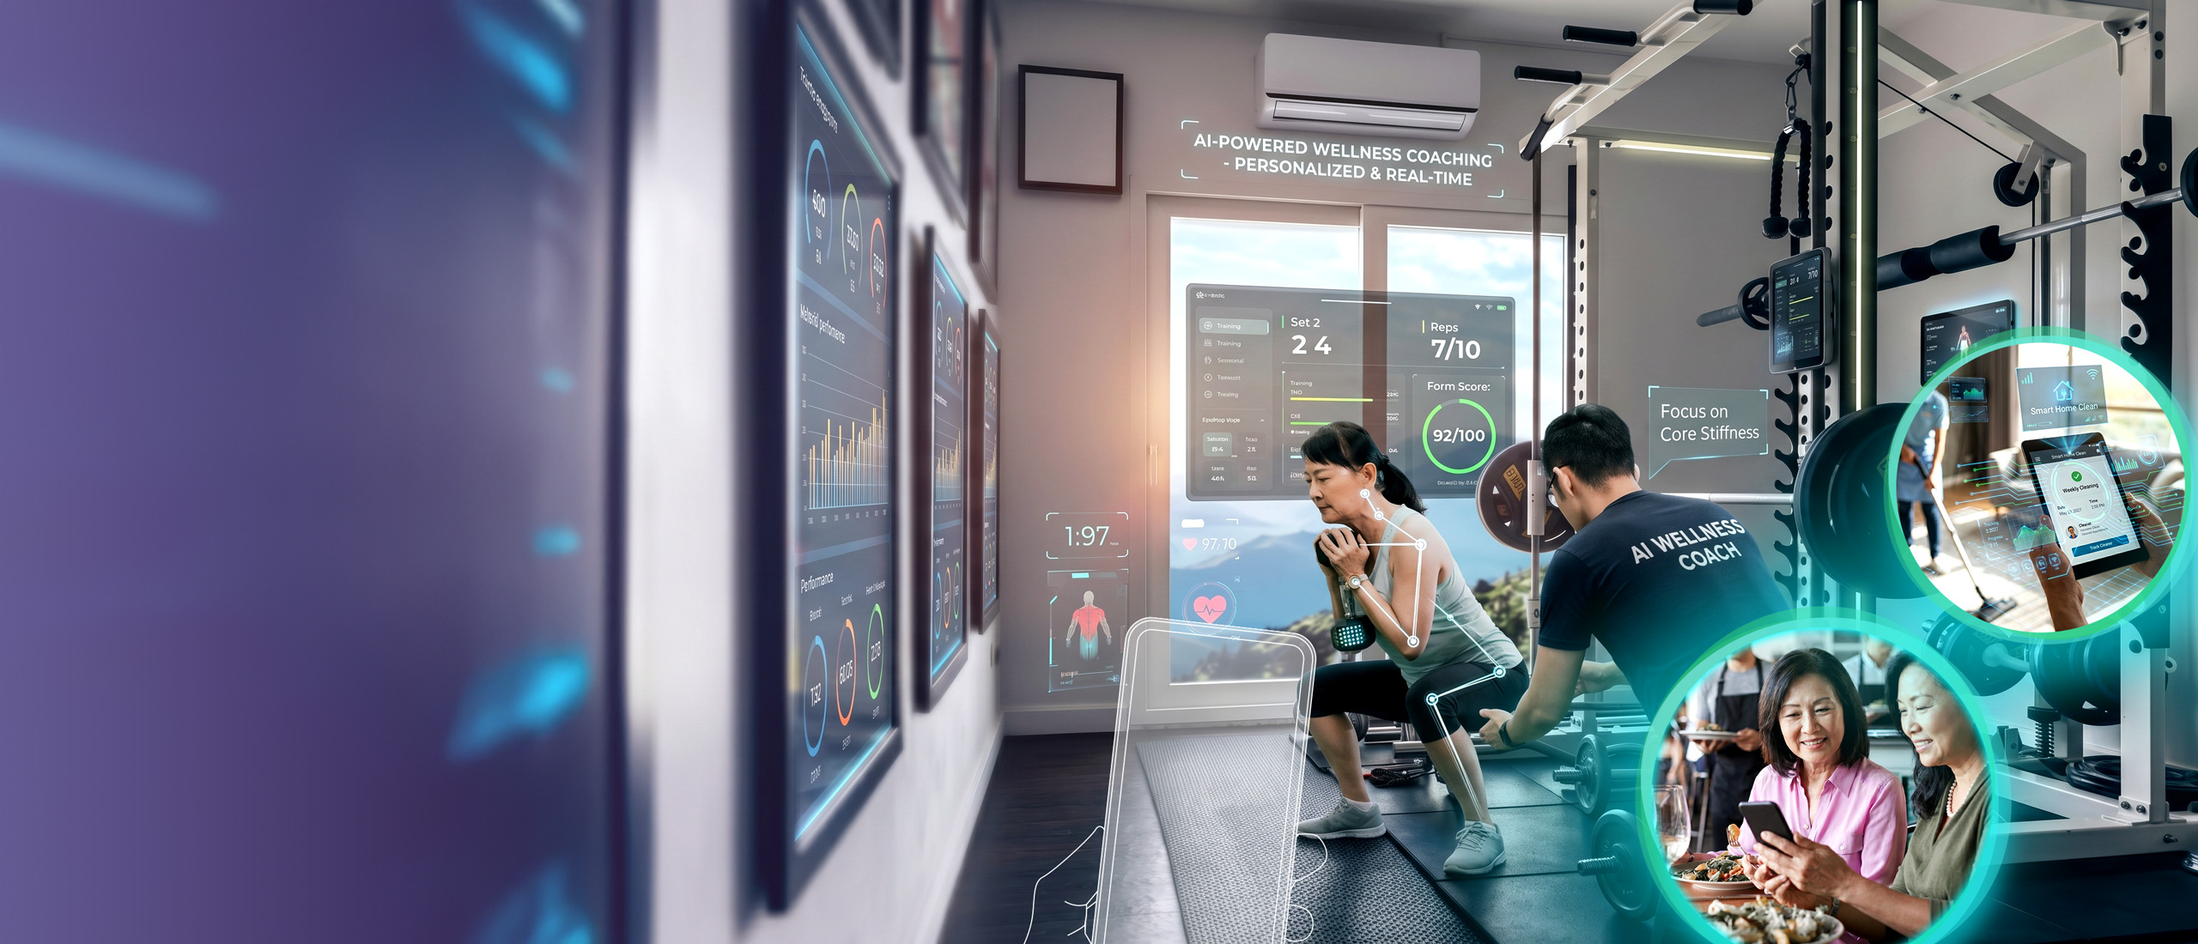
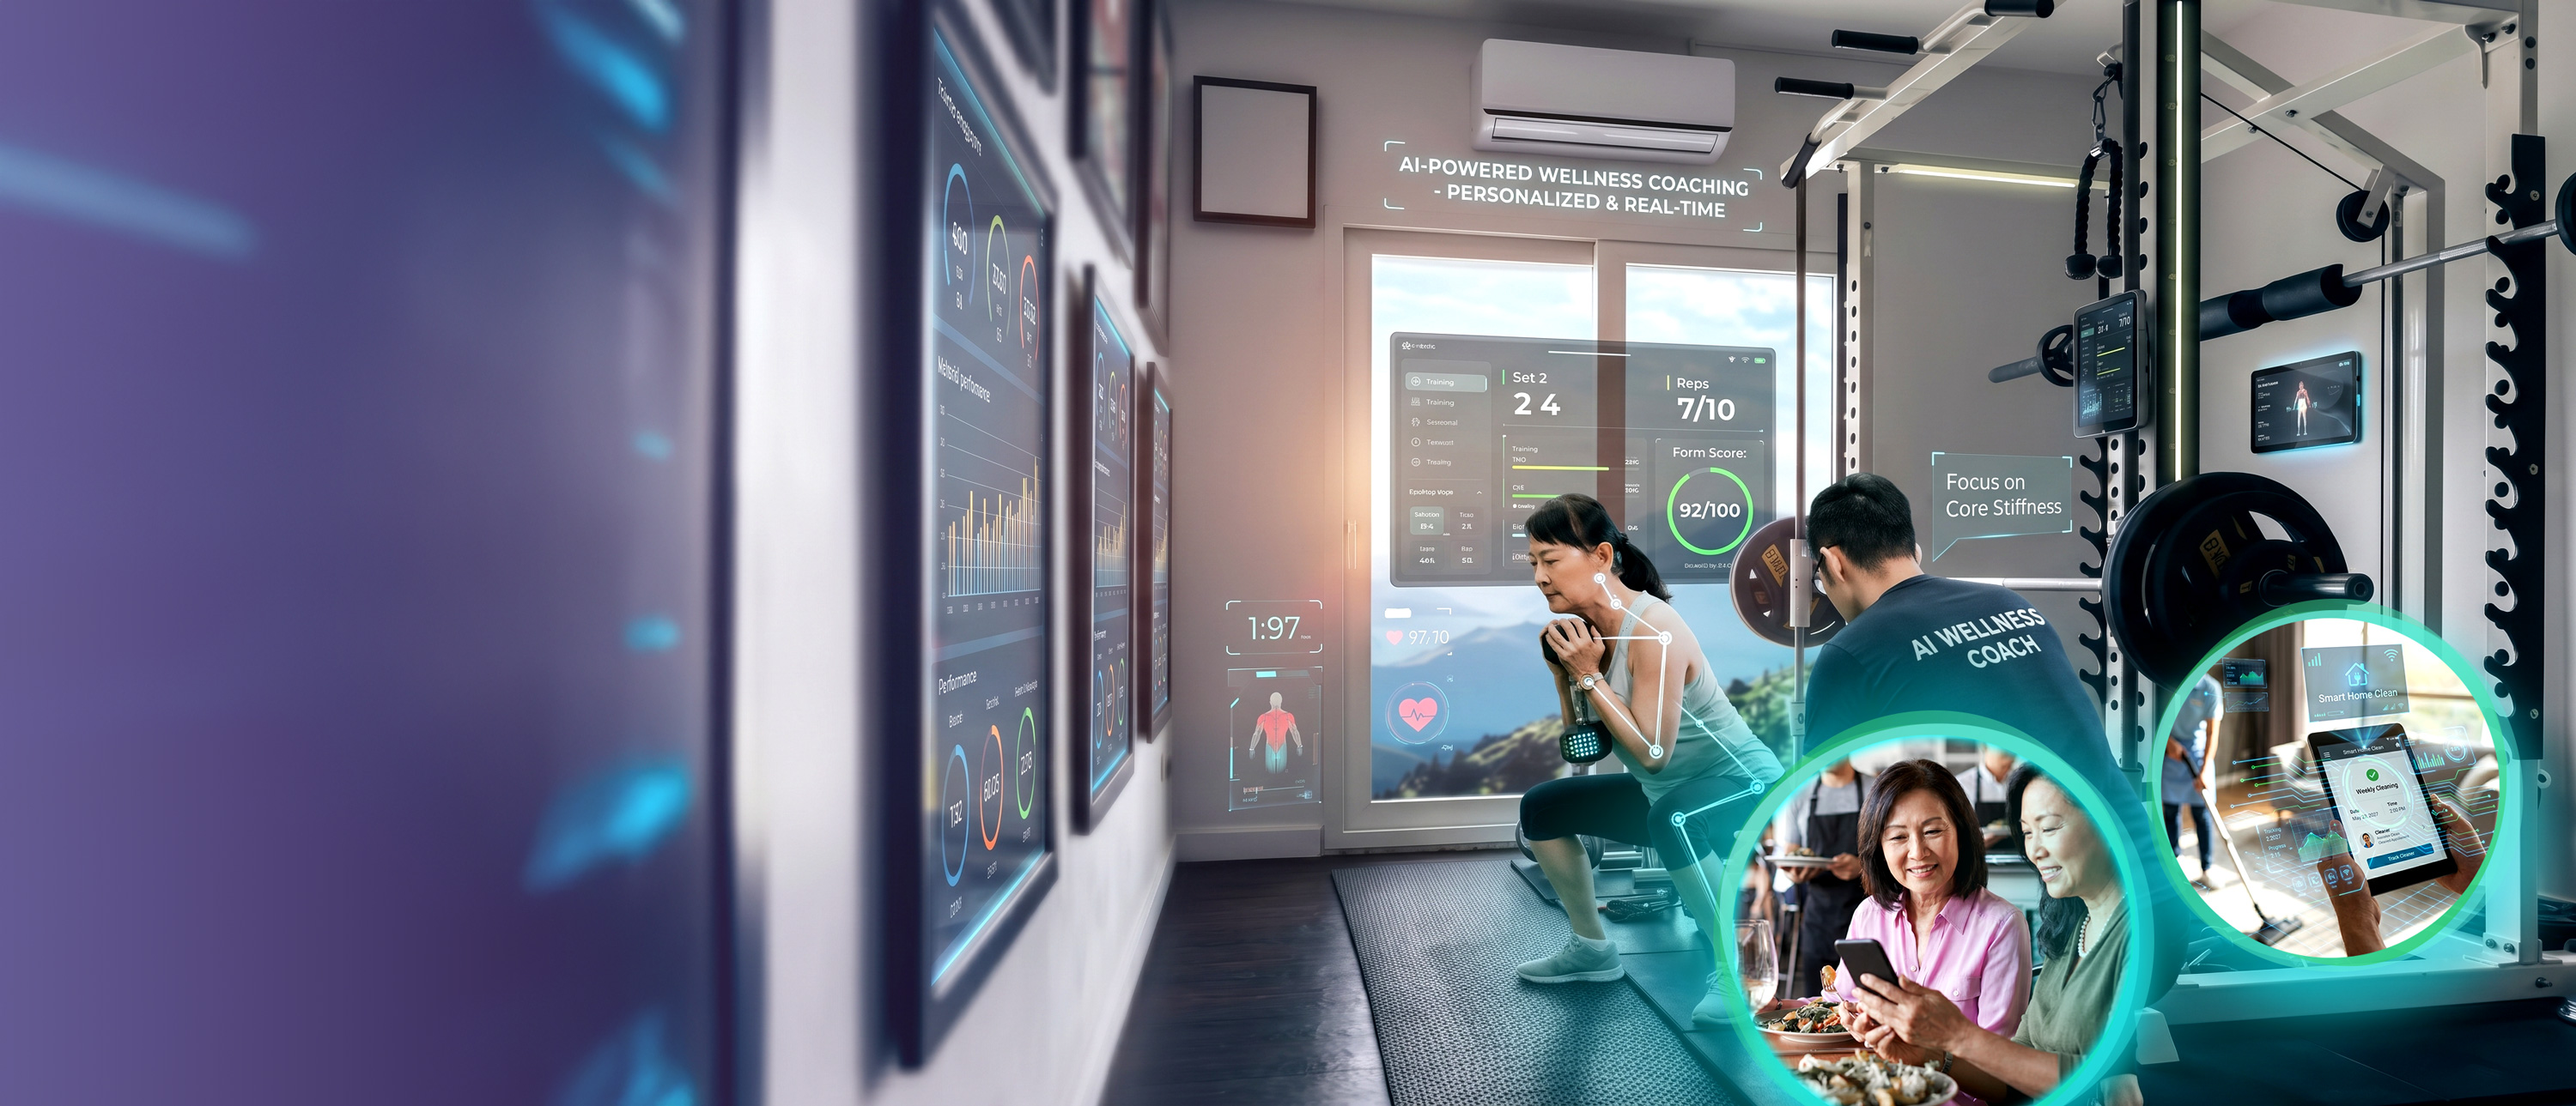
img_posi_

Changed region(s): [[0.4688, 0.34, 1.0, 1.0]]

diff --git a/web_EZCON_2024IntelligentBuilding/assets/css/main.css b/web_EZCON_2024IntelligentBuilding/assets/css/main.css
@@ -8129,7 +8129,7 @@ img {
     left: 0;
     padding-right: 0;
     max-width: 100%;
-    top: 18rem;
+    top: 18.5rem;
   }
 }
 @media only screen and (min-width: 576px) and (max-width: 767px) {
@@ -8166,9 +8166,9 @@ img {
     height: 600px;
   }
   .blog-slide-item.type2 .xb-item--img img {
-    height: 46%;
+    height: 48%;
     object-fit: cover;
-    object-position: -200px 0;
+    object-position: -270px 0;
   }
 }
 @media (max-width: 767px) {
@@ -8179,6 +8179,11 @@ img {
 @media (max-width: 767px) {
   .blog-slide-item.type2 .xb-item--title, .blog-slide-item.type2 .xb-item--content {
     padding: 0 2rem 0 3.2rem;
+  }
+}
+@media (max-width: 767px) {
+  .blog-slide-item.type2 .xb-item--img img.type2_posi {
+    object-position: -240px 0;
   }
 }
 @media (max-width: 767px) {
@@ -8201,7 +8206,7 @@ img {
     right: 15px;
     bottom: 18px;
     left: 8rem;
-    top: 16rem;
+    top: 16.5rem;
   }
 }
 @media only screen and (min-width: 576px) and (max-width: 767px) {

diff --git a/web_EZCON_2024IntelligentBuilding/ezlife.html b/web_EZCON_2024IntelligentBuilding/ezlife.html
@@ -638,7 +638,7 @@
                                 <!-- 3 -->
                                 <div class="swiper-slide">
                                     <div class="blog-slide-item type2">
-                                        <div class="xb-item--img"><img src="demo/ezlife/senior_AI偵測.jpg" alt=""></div>
+                                        <div class="xb-item--img"><img src="demo/ezlife/senior_AI偵測.jpg" alt="" class="type2_posi"></div>
                                         <div class="xb-item--holder">
                                             <a href="#!" class="xb-item--tag xb-border"># ai business tips</a>
                                             <h2 class="xb-item--title"><a href="blog-details.html">安全監控</a></h2>
